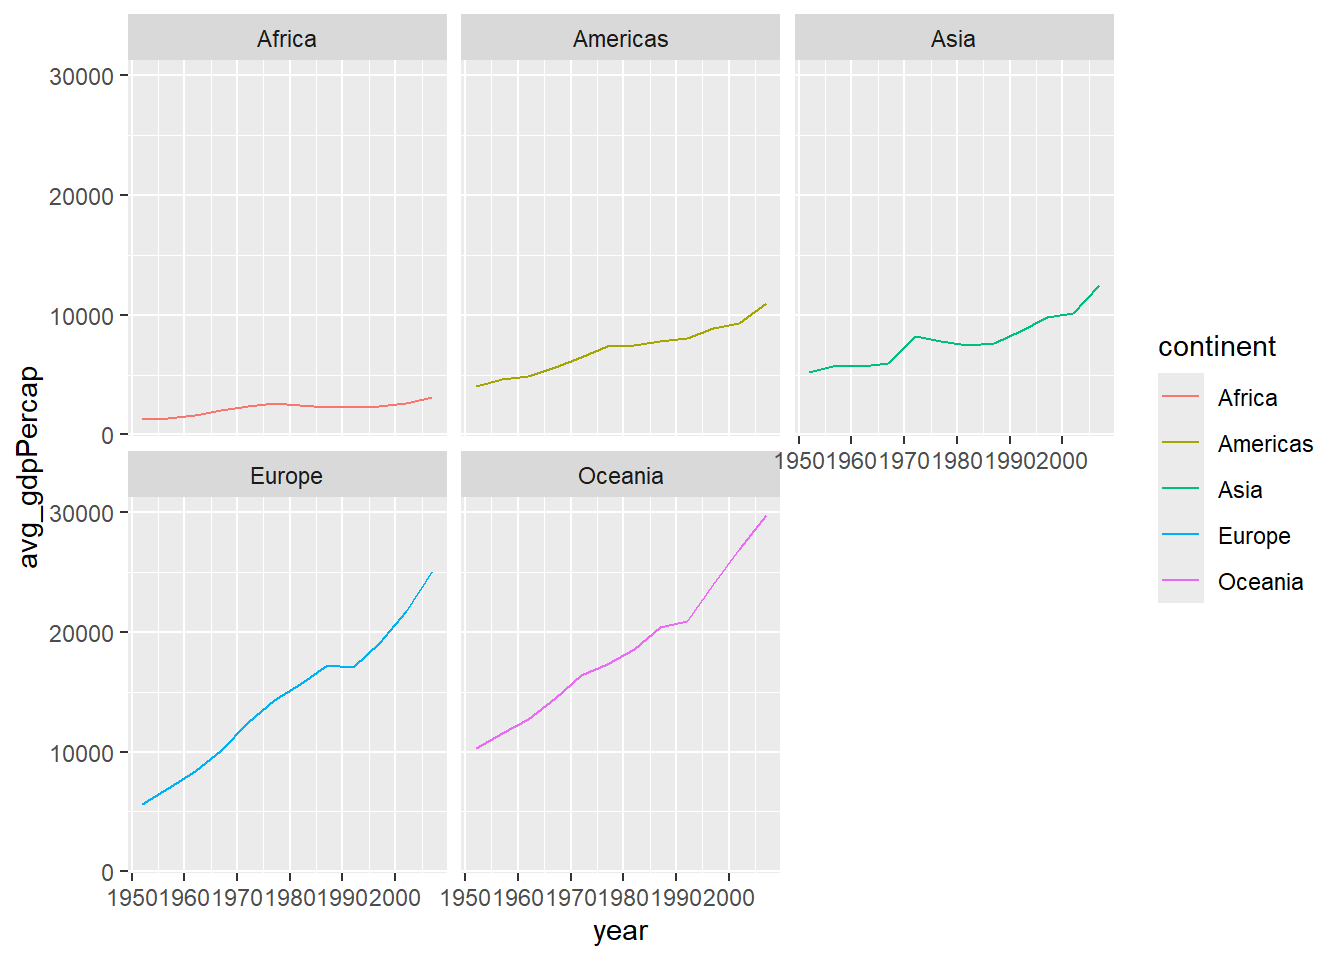
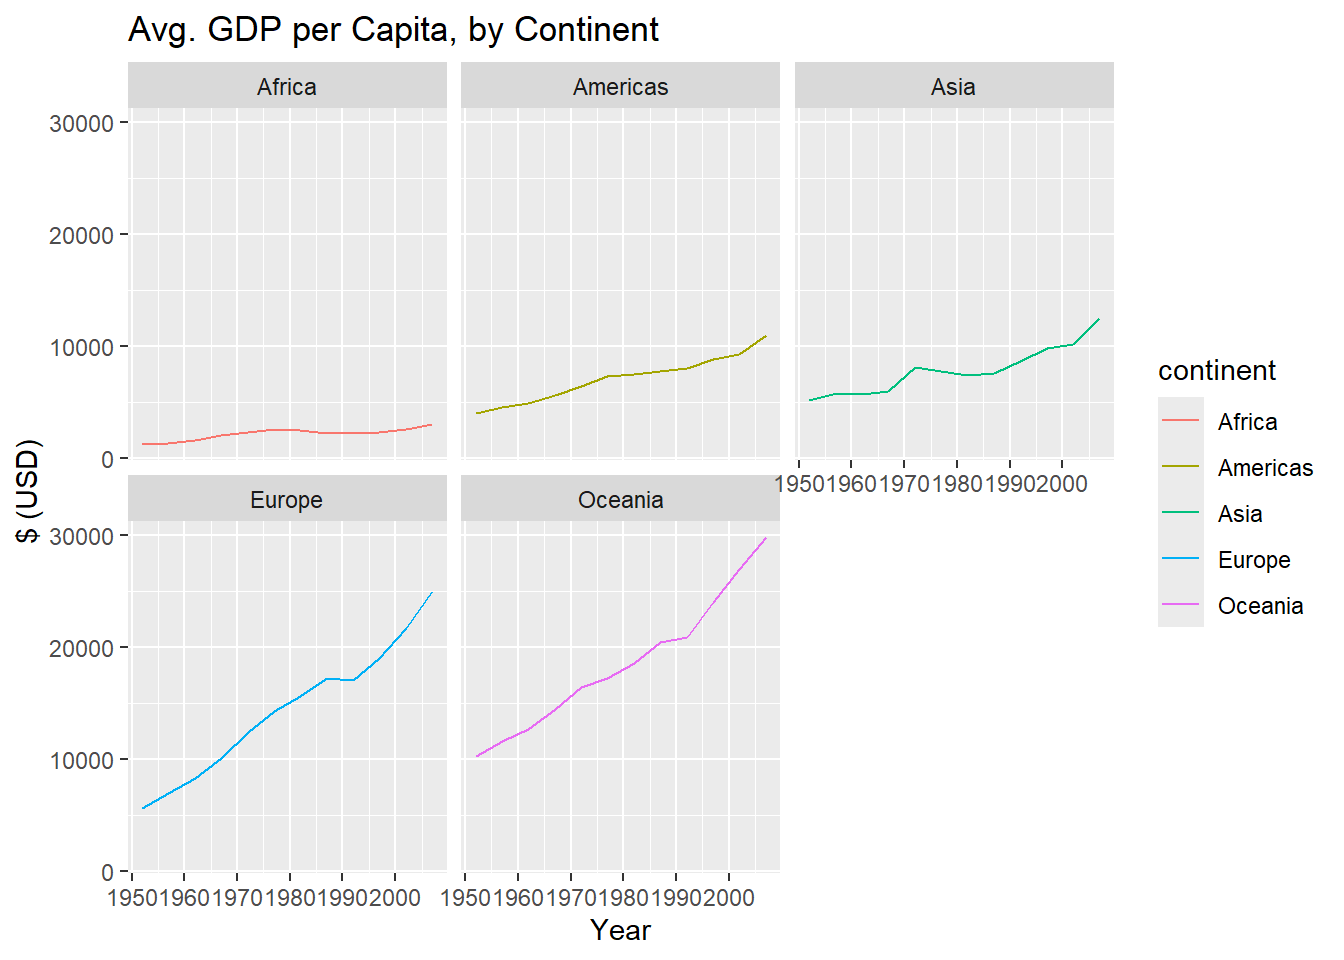
BC

diff --git a/_site/posts/facet plot/lesson3_ggplot-facets.html b/_site/posts/facet plot/lesson3_ggplot-facets.html
@@ -2084,7 +2084,7 @@ globalThis.qwebrCreateMonacoEditorInstance = function (cellData) {
 package 'gapminder' successfully unpacked and MD5 sums checked
 
 The downloaded binary packages are in
-    C:\Users\brian\AppData\Local\Temp\RtmpUT2Ge4\downloaded_packages</code></pre>
+    C:\Users\brian\AppData\Local\Temp\RtmpaaSrrt\downloaded_packages</code></pre>
 </div>
 <div class="sourceCode cell-code" id="cb4"><pre class="sourceCode r code-with-copy"><code class="sourceCode r"><span id="cb4-1"><a href="#cb4-1" aria-hidden="true" tabindex="-1"></a><span class="co">#load the libraries so you can use them</span></span>
 <span id="cb4-2"><a href="#cb4-2" aria-hidden="true" tabindex="-1"></a><span class="fu">library</span>(tidyverse)</span></code><button title="Copy to Clipboard" class="code-copy-button"><i class="bi"></i></button></pre></div>
@@ -2141,7 +2141,7 @@ The downloaded binary packages are in
 6 Zimbabwe Africa     2007    43.5 12311143      470.</code></pre>
 </div>
 </div>
-<p>It look pretty clean and tidy. We’ll explore some additional options for looking at data sets in the coming weeks.</p>
+<p>It looks pretty clean and tidy. We’ll explore some additional options for looking at data sets in the coming weeks.</p>
 </section>
 <section id="make-a-facetted-plot" class="level2">
 <h2 class="anchored" data-anchor-id="make-a-facetted-plot">Make a facetted plot</h2>
@@ -2158,7 +2158,7 @@ The downloaded binary packages are in
 </div>
 <div class="sourceCode cell-code" id="cb14"><pre class="sourceCode r code-with-copy"><code class="sourceCode r"><span id="cb14-1"><a href="#cb14-1" aria-hidden="true" tabindex="-1"></a><span class="co">#make a plot</span></span>
 <span id="cb14-2"><a href="#cb14-2" aria-hidden="true" tabindex="-1"></a>plot <span class="ot">&lt;-</span> <span class="fu">ggplot</span>(df1) <span class="sc">+</span></span>
-<span id="cb14-3"><a href="#cb14-3" aria-hidden="true" tabindex="-1"></a>  <span class="fu">geom_line</span>(<span class="fu">aes</span>(<span class="at">x =</span> year, <span class="at">y =</span> avg_gdpPercap, <span class="at">color =</span> continent))</span></code><button title="Copy to Clipboard" class="code-copy-button"><i class="bi"></i></button></pre></div>
+<span id="cb14-3"><a href="#cb14-3" aria-hidden="true" tabindex="-1"></a>  <span class="fu">geom_line</span>(<span class="fu">aes</span>(<span class="at">x =</span> year, <span class="at">y =</span> avg_gdpPercap, <span class="at">color =</span> continent)) <span class="sc">+</span> <span class="fu">labs</span>(<span class="at">title =</span> <span class="st">"Avg. GDP per Capita, by Continent"</span>, <span class="at">x =</span> <span class="st">"Year"</span>, <span class="at">y =</span> <span class="st">"$ (USD)"</span>)</span></code><button title="Copy to Clipboard" class="code-copy-button"><i class="bi"></i></button></pre></div>
 </div>
 <p>That gives us the same line plot as last session.</p>
 <p>Facetting will separate each of this lines into their own plot panel. You can imagine that if you have lots of data on a single plot, it is easier to see if you can separate visualizations by one of the discrete variables.</p>
@@ -2201,7 +2201,7 @@ The downloaded binary packages are in
 <span id="cb18-2"><a href="#cb18-2" aria-hidden="true" tabindex="-1"></a></span>
 <span id="cb18-3"><a href="#cb18-3" aria-hidden="true" tabindex="-1"></a>plot_amer <span class="ot">&lt;-</span> <span class="fu">ggplot</span>(df2) <span class="sc">+</span></span>
 <span id="cb18-4"><a href="#cb18-4" aria-hidden="true" tabindex="-1"></a>  <span class="fu">geom_line</span>(<span class="fu">aes</span>(<span class="at">x =</span> year, <span class="at">y =</span> avg_gdpPercap, <span class="at">color =</span> country)) <span class="sc">+</span></span>
-<span id="cb18-5"><a href="#cb18-5" aria-hidden="true" tabindex="-1"></a>  <span class="fu">labs</span>(<span class="at">title =</span> <span class="st">"Standard Plot"</span>) <span class="sc">+</span></span>
+<span id="cb18-5"><a href="#cb18-5" aria-hidden="true" tabindex="-1"></a>  <span class="fu">labs</span>(<span class="at">title =</span> <span class="st">"Standard Plot"</span>, <span class="at">y =</span> <span class="st">"$ (USD)"</span>, <span class="at">x =</span> <span class="st">"Year"</span>) <span class="sc">+</span></span>
 <span id="cb18-6"><a href="#cb18-6" aria-hidden="true" tabindex="-1"></a>  <span class="fu">theme</span>(<span class="at">legend.position =</span> <span class="st">"none"</span>)</span>
 <span id="cb18-7"><a href="#cb18-7" aria-hidden="true" tabindex="-1"></a></span>
 <span id="cb18-8"><a href="#cb18-8" aria-hidden="true" tabindex="-1"></a>plot_amer</span></code><button title="Copy to Clipboard" class="code-copy-button"><i class="bi"></i></button></pre></div>
@@ -2218,7 +2218,7 @@ The downloaded binary packages are in
 <div class="cell">
 <div class="sourceCode cell-code" id="cb19"><pre class="sourceCode r code-with-copy"><code class="sourceCode r"><span id="cb19-1"><a href="#cb19-1" aria-hidden="true" tabindex="-1"></a>plot_amer <span class="sc">+</span> </span>
 <span id="cb19-2"><a href="#cb19-2" aria-hidden="true" tabindex="-1"></a>  <span class="fu">facet_wrap</span>(<span class="at">facets =</span> df2<span class="sc">$</span>country) <span class="sc">+</span></span>
-<span id="cb19-3"><a href="#cb19-3" aria-hidden="true" tabindex="-1"></a>  <span class="fu">labs</span>(<span class="at">title =</span> <span class="st">"Facetted Plot"</span>) <span class="sc">+</span></span>
+<span id="cb19-3"><a href="#cb19-3" aria-hidden="true" tabindex="-1"></a>  <span class="fu">labs</span>(<span class="at">title =</span> <span class="st">"Facetted Plot"</span>, <span class="at">y =</span> <span class="st">"$ (USD)"</span>, <span class="at">x =</span> <span class="st">"Year"</span>) <span class="sc">+</span></span>
 <span id="cb19-4"><a href="#cb19-4" aria-hidden="true" tabindex="-1"></a>  <span class="fu">theme</span>(<span class="at">legend.position =</span> <span class="st">"none"</span></span>
 <span id="cb19-5"><a href="#cb19-5" aria-hidden="true" tabindex="-1"></a>        , <span class="at">axis.text.x =</span> <span class="fu">element_text</span>(<span class="at">angle =</span> <span class="dv">45</span>, <span class="at">vjust =</span> .<span class="dv">5</span>, <span class="at">hjust =</span> <span class="dv">1</span>))</span></code><button title="Copy to Clipboard" class="code-copy-button"><i class="bi"></i></button></pre></div>
 <div class="cell-output-display">

diff --git a/_site/index.html b/_site/index.html
@@ -127,11 +127,12 @@ ul.task-list li input[type="checkbox"] {
       <div class="about-contents"><main class="content column-page" id="quarto-document-content">
 <section id="bio" class="level2">
 <h2 data-anchor-id="bio">Bio</h2>
-<p>Hi, I’m Brian Calhoon. I am a data scientist with 15 years of experience implementing, monitoring, evaluating, and assessing international development projects. I have worked with the U.S. Agency for International Development, the U.S. Department of State, the U.S. Department of Defense, and private foundations. My experience includes working on projects in Haiti, Niger, Burkina Faso, Senegal, Ukraine, and shorter research assignments on many countries in Latin America, Africa, Eastern Europe, and Asia. I also enjoy making sourdough bread.</p>
+<p>Hi, I’m Brian Calhoon. I am a data scientist with 15 years of experience implementing, monitoring, evaluating, and assessing international development projects. I have worked with the U.S. Agency for International Development, the U.S. Department of State, the U.S. Department of Defense, and private foundations. My experience includes working on projects in Haiti, Niger, Burkina Faso, Senegal, Ukraine, and shorter research assignments on many countries in Latin America, Africa, Eastern Europe, and Asia. I also enjoy making sourdough bread and pizza, skiing, and mixed martial arts.</p>
+<p>I am an avid R user with an interest in data visualization, GIS, analyzing big data, Bayesian statistics, and natural language processing. If you are interested in learning R check out the <a href="https://dabrianc.github.io/website/blog.html">Humans Learning</a> section of this website where I share code with explanations.</p>
 </section>
 <section id="work-with-me" class="level2">
 <h2 data-anchor-id="work-with-me">Work with me</h2>
-<p>I’m available for consulting on short- or long-term assignments. You can <a href="mailto:briancalhoon.consulting@gmail.com">contact me</a> to set up a time to discuss your project.</p>
+<p>If you have a need for a data analyst/scientist, I’m available for consulting on short- or long-term assignments. You can <a href="mailto:briancalhoon.consulting@gmail.com">contact me</a> to set up a time to discuss your project.</p>
 
 
 </section>

diff --git a/_site/blog.html b/_site/blog.html
@@ -192,10 +192,10 @@ window.Quarto = {
 
 <div class="quarto-listing quarto-listing-container-default" id="listing-listing">
 <div class="list quarto-listing-default">
-<div class="quarto-post image-right" data-index="0" data-listing-date-sort="1732251600000" data-listing-file-modified-sort="1756243317609" data-listing-date-modified-sort="NaN" data-listing-reading-time-sort="8" data-listing-word-count-sort="1439">
+<div class="quarto-post image-right" data-index="0" data-listing-date-sort="1732251600000" data-listing-file-modified-sort="1756390149253" data-listing-date-modified-sort="NaN" data-listing-reading-time-sort="8" data-listing-word-count-sort="1469">
 <div class="thumbnail">
 <p><a href="./posts/facet plot/lesson3_ggplot-facets.html" class="no-external"></a></p><a href="./posts/facet plot/lesson3_ggplot-facets.html" class="no-external">
-<p class="card-img-top"><img src="posts\facet plot\prep\humanslearning.png"  class="thumbnail-image card-img"/></p>
+<p><img loading="lazy" src="./posts/facet plot/facet plot.png" class="thumbnail-image"></p>
 </a><p><a href="./posts/facet plot/lesson3_ggplot-facets.html" class="no-external"></a></p>
 </div>
 <div class="body">
